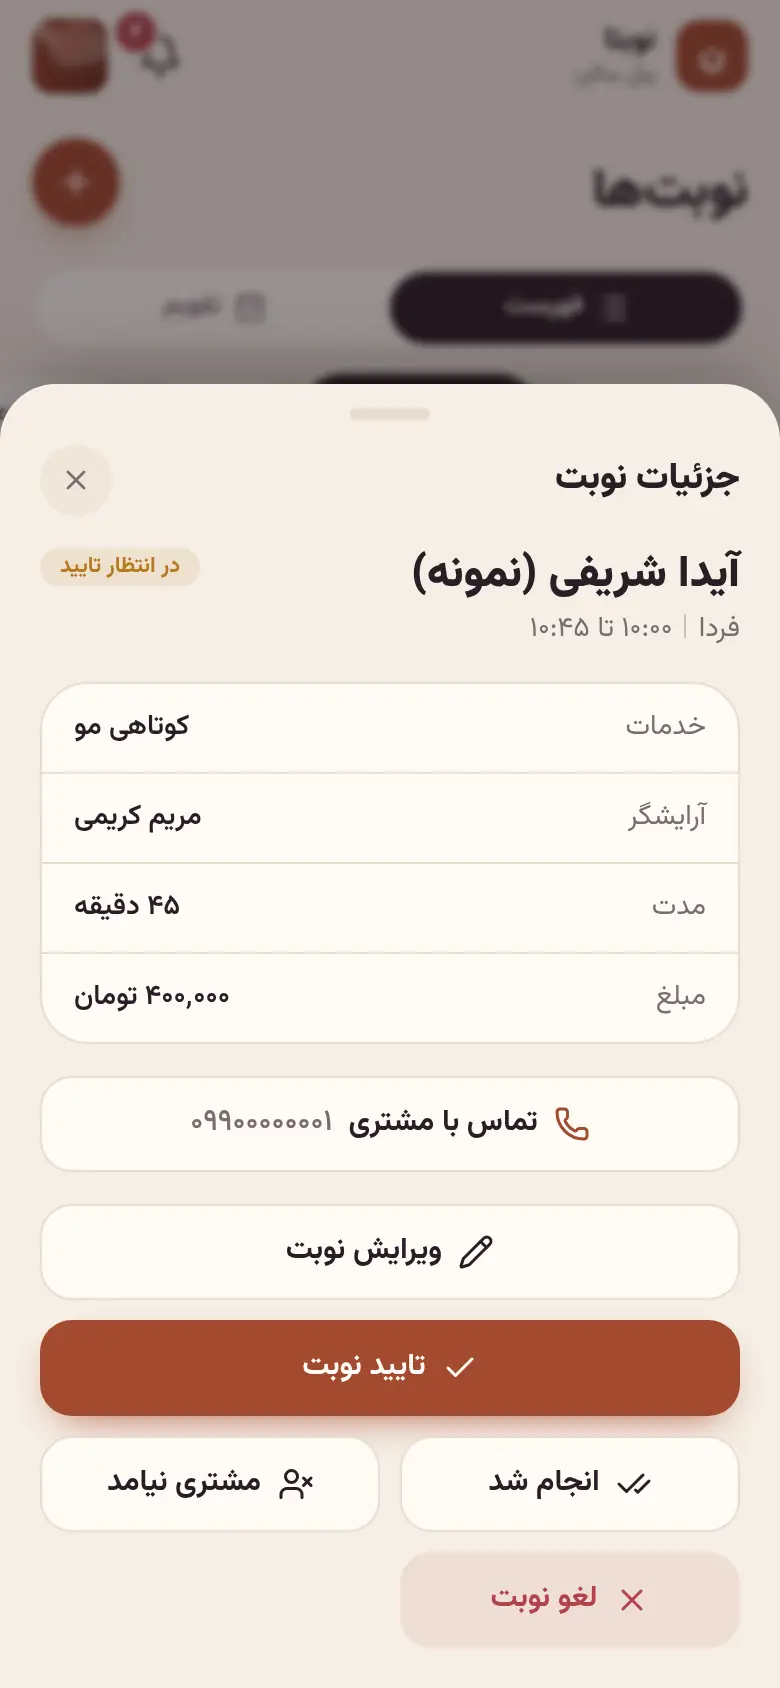
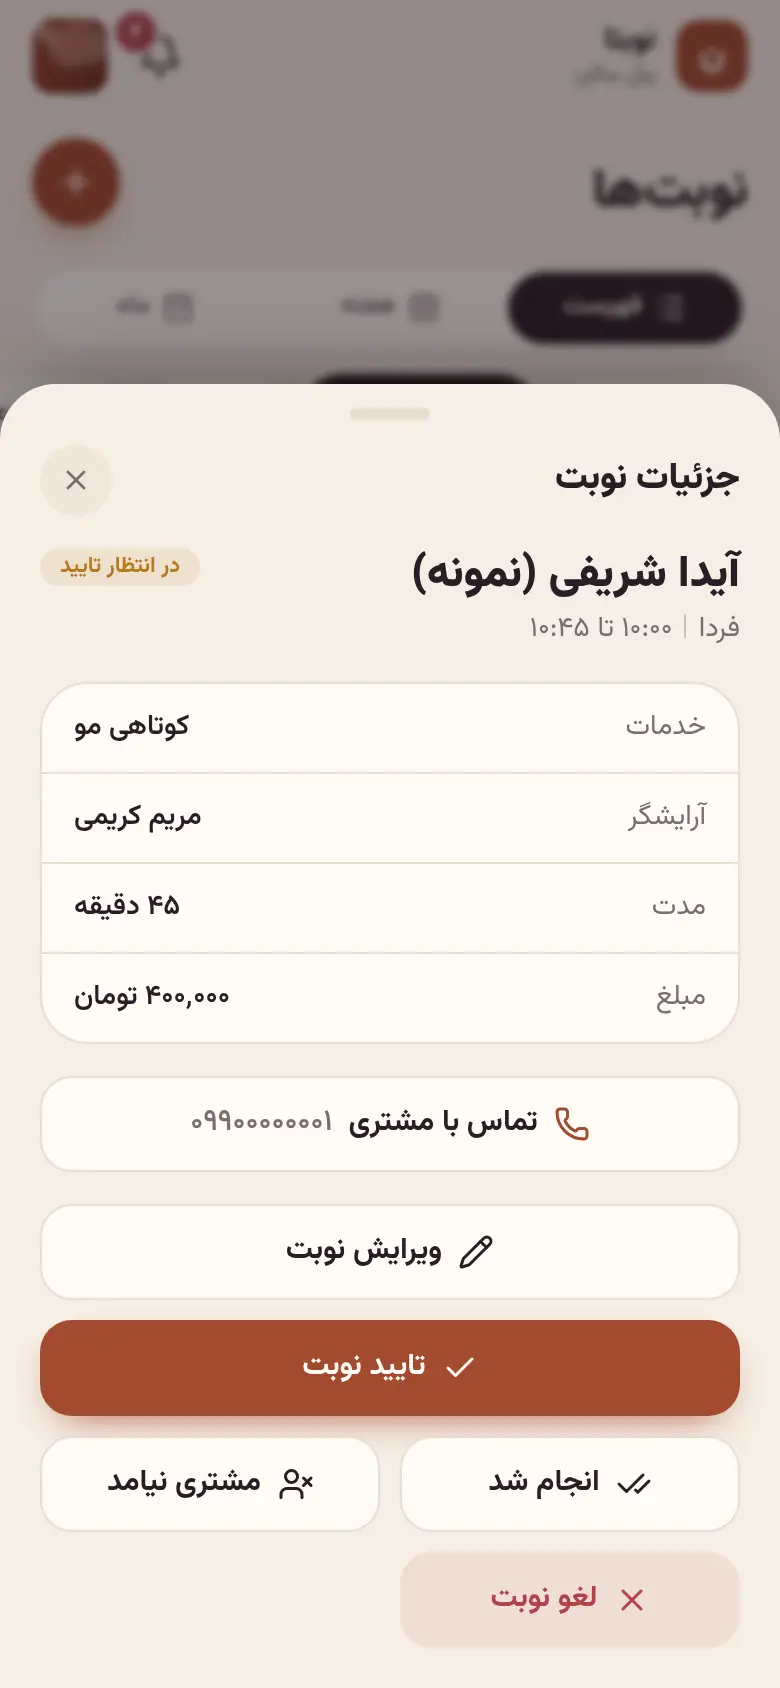
Appointments: week view (salon and stylist panels)
- «فهرست / هفته / ماه» switch, remembered per device
- AppointmentWeek: Saturday–Friday columns on an hour ruler (09–21, stretched to fit the
  week), each booking a block sized by duration and coloured by status, overlapping bookings in
  lanes, stylist filter chips for owners, red now line on today, Friday/holidays marked, week
  arrows (tap the label to jump back to this week); blocks open the usual action sheet
- Help Center: week-view step with a real screenshot; CLAUDE.md updated

Claude-Session: https://claude.ai/code/session_01E1cUf2Db2pw3JrqPEy92s9

diff --git a/apps/web/src/components/app/AppointmentWeek.tsx b/apps/web/src/components/app/AppointmentWeek.tsx
@@ -1,0 +1,227 @@
+"use client";
+
+import { useEffect, useMemo, useState } from "react";
+import { ChevronLeft, ChevronRight } from "lucide-react";
+import { iranHoliday } from "@/lib/iranHolidays";
+import { dateKeyToDate, toJalali } from "@/lib/jalali";
+import { formatMinutesAsClock, toPersianDigits } from "@/lib/persian";
+import { addDaysToDateKey, toSalonWallTime } from "@/lib/salonTime";
+import { STATUS_META, type AppAppointment, type AppointmentStatus } from "./appointments";
+import { cx } from "./ui";
+
+// Week view of the appointments screen: Saturday → Friday columns on an hour ruler, each booking a
+// block sized by its duration and coloured by status, so busy and free hours read at a glance.
+// Tap a block for the usual action sheet. Overlapping bookings (different stylists at the same
+// time) split the column into lanes; owners can filter to one stylist. Salon-local wall time.
+
+const HOUR_PX = 44;
+const WEEKDAY_SHORT = ["ش", "ی", "د", "س", "چ", "پ", "ج"];
+const BLOCK: Record<AppointmentStatus, string> = {
+  PENDING: "bg-app-pending text-white",
+  CONFIRMED: "bg-app-accent text-app-accent-ink",
+  COMPLETED: "bg-app-done text-white",
+  NO_SHOW: "bg-app-danger/75 text-white",
+  CANCELLED: "",
+};
+
+/** Saturday of the week containing `dateKey` (weeks run Saturday → Friday). */
+function weekStart(dateKey: string) {
+  const dow = new Date(`${dateKey}T00:00:00.000Z`).getUTCDay(); // 0 = Sunday … 6 = Saturday
+  return addDaysToDateKey(dateKey, -((dow + 1) % 7));
+}
+
+interface Placed {
+  a: AppAppointment;
+  start: number;
+  end: number;
+  lane: number;
+}
+
+/** Greedy lanes so overlapping bookings sit side by side. */
+function placeDay(items: AppAppointment[]): { placed: Placed[]; lanes: number } {
+  const sorted = items
+    .map((a) => {
+      const s = toSalonWallTime(a.startAt);
+      const e = toSalonWallTime(a.endAt);
+      // a booking running past midnight is drawn to the end of its day
+      return { a, start: s.minuteOfDay, end: e.dateKey === s.dateKey ? e.minuteOfDay : 24 * 60 };
+    })
+    .sort((x, y) => x.start - y.start);
+  const laneEnds: number[] = [];
+  const placed = sorted.map((p) => {
+    let lane = laneEnds.findIndex((end) => end <= p.start);
+    if (lane === -1) lane = laneEnds.push(0) - 1;
+    laneEnds[lane] = p.end;
+    return { ...p, lane };
+  });
+  return { placed, lanes: Math.max(1, laneEnds.length) };
+}
+
+export default function AppointmentWeek({
+  appointments,
+  showStylist,
+  onOpen,
+}: {
+  appointments: AppAppointment[];
+  showStylist?: boolean;
+  onOpen: (a: AppAppointment) => void;
+}) {
+  const todayKey = toSalonWallTime(new Date()).dateKey;
+  const [start, setStart] = useState(() => weekStart(todayKey));
+  const [stylist, setStylist] = useState<string | null>(null);
+  const [nowMinute, setNowMinute] = useState(() => toSalonWallTime(new Date()).minuteOfDay);
+
+  // keep the "now" line moving while the screen is open
+  useEffect(() => {
+    const t = setInterval(() => setNowMinute(toSalonWallTime(new Date()).minuteOfDay), 60_000);
+    return () => clearInterval(t);
+  }, []);
+
+  const days = useMemo(() => Array.from({ length: 7 }, (_, i) => addDaysToDateKey(start, i)), [start]);
+  const stylists = useMemo(
+    () => (showStylist ? [...new Set(appointments.map((a) => a.stylist?.displayName).filter((n): n is string => !!n))] : []),
+    [appointments, showStylist],
+  );
+
+  const week = useMemo(() => {
+    const inWeek = appointments.filter((a) => {
+      if (a.status === "CANCELLED") return false;
+      if (stylist && a.stylist?.displayName !== stylist) return false;
+      const key = toSalonWallTime(a.startAt).dateKey;
+      return key >= days[0] && key <= days[6];
+    });
+    const byDay = days.map((d) => placeDay(inWeek.filter((a) => toSalonWallTime(a.startAt).dateKey === d)));
+    const all = byDay.flatMap((d) => d.placed);
+    const from = Math.min(9, ...all.map((p) => Math.floor(p.start / 60)));
+    const to = Math.max(21, ...all.map((p) => Math.ceil(p.end / 60)));
+    return { byDay, count: all.length, from, to };
+  }, [appointments, days, stylist]);
+
+  const hours = Array.from({ length: week.to - week.from }, (_, i) => week.from + i);
+  const first = toJalali(dateKeyToDate(days[0]));
+  const last = toJalali(dateKeyToDate(days[6]));
+  const label =
+    first.month.number === last.month.number
+      ? `${toPersianDigits(first.day)} تا ${toPersianDigits(last.day)} ${last.month.name}`
+      : `${toPersianDigits(first.day)} ${first.month.name} تا ${toPersianDigits(last.day)} ${last.month.name}`;
+  const isThisWeek = days.includes(todayKey);
+
+  return (
+    <div>
+      <div className="mb-3 flex items-center justify-between rounded-3xl border border-app-line bg-app-card p-1.5 shadow-app">
+        {/* RTL: the earlier week sits on the right */}
+        <button type="button" onClick={() => setStart(addDaysToDateKey(start, -7))} aria-label="هفته قبل" className="flex h-11 w-11 items-center justify-center rounded-2xl text-app-ink active:bg-app-card-2">
+          <ChevronRight className="h-5 w-5" aria-hidden />
+        </button>
+        <button type="button" onClick={() => setStart(weekStart(todayKey))} className="text-center" aria-label="برگشت به این هفته">
+          <p className="text-[16px] font-black text-app-ink">{label}</p>
+          <p className="text-[11px] font-medium text-app-muted">
+            {isThisWeek ? "این هفته" : "برگشت به این هفته"}
+            {" — "}
+            {toPersianDigits(week.count)} نوبت
+          </p>
+        </button>
+        <button type="button" onClick={() => setStart(addDaysToDateKey(start, 7))} aria-label="هفته بعد" className="flex h-11 w-11 items-center justify-center rounded-2xl text-app-ink active:bg-app-card-2">
+          <ChevronLeft className="h-5 w-5" aria-hidden />
+        </button>
+      </div>
+
+      {stylists.length > 1 && (
+        <div className="-mx-4 mb-3 flex gap-2 overflow-x-auto px-4 [scrollbar-width:none]" role="radiogroup" aria-label="آرایشگر">
+          {[null, ...stylists].map((s) => (
+            <button
+              key={s ?? "all"}
+              type="button"
+              role="radio"
+              aria-checked={stylist === s}
+              onClick={() => setStylist(s)}
+              className={cx(
+                "h-9 shrink-0 rounded-full px-3.5 text-[13px] font-bold transition",
+                stylist === s ? "bg-app-ink text-app-bg" : "border border-app-line bg-app-card text-app-muted",
+              )}
+            >
+              {s ?? "همه آرایشگرها"}
+            </button>
+          ))}
+        </div>
+      )}
+
+      <div className="overflow-hidden rounded-3xl border border-app-line bg-app-card shadow-app">
+        {/* day headers */}
+        <div className="grid grid-cols-[34px_repeat(7,minmax(0,1fr))] border-b border-app-line">
+          <span />
+          {days.map((d, i) => {
+            const holiday = iranHoliday(d);
+            const red = i === 6 || holiday;
+            const today = d === todayKey;
+            return (
+              <div key={d} className={cx("flex flex-col items-center py-2", holiday && "bg-app-danger/[0.06]")} title={holiday ?? undefined}>
+                <span className={cx("text-[11px] font-bold", red ? "text-app-danger" : "text-app-muted")}>{WEEKDAY_SHORT[i]}</span>
+                <span
+                  className={cx(
+                    "mt-0.5 flex h-7 w-7 items-center justify-center rounded-full text-[13px] font-black",
+                    today ? "bg-app-accent text-app-accent-ink" : red ? "text-app-danger" : "text-app-ink",
+                  )}
+                >
+                  {toPersianDigits(toJalali(dateKeyToDate(d)).day)}
+                </span>
+              </div>
+            );
+          })}
+        </div>
+
+        {/* hour ruler + columns */}
+        <div className="relative grid grid-cols-[34px_repeat(7,minmax(0,1fr))]" style={{ height: hours.length * HOUR_PX }}>
+          <div className="relative">
+            {hours.map((h, i) => (
+              <span key={h} className="absolute right-1 -translate-y-1/2 text-[10px] font-medium text-app-muted" style={{ top: i * HOUR_PX }}>
+                {i === 0 ? "" : toPersianDigits(h)}
+              </span>
+            ))}
+          </div>
+          {days.map((d, di) => {
+            const { placed, lanes } = week.byDay[di];
+            return (
+              <div key={d} className={cx("relative border-r border-app-line/70", iranHoliday(d) && "bg-app-danger/[0.04]")}>
+                {hours.map((h, i) => (
+                  <span key={h} aria-hidden className="absolute inset-x-0 border-t border-app-line/60" style={{ top: i * HOUR_PX }} />
+                ))}
+                {d === todayKey && nowMinute >= week.from * 60 && nowMinute <= week.to * 60 && (
+                  <span aria-hidden className="absolute inset-x-0 z-20 h-0.5 bg-app-danger" style={{ top: ((nowMinute - week.from * 60) / 60) * HOUR_PX }}>
+                    <span className="absolute -right-1 -top-[3px] h-2 w-2 rounded-full bg-app-danger" />
+                  </span>
+                )}
+                {placed.map(({ a, start: s, end: e, lane }) => {
+                  const top = ((s - week.from * 60) / 60) * HOUR_PX;
+                  const height = Math.max(16, ((e - s) / 60) * HOUR_PX - 2);
+                  const who = a.customer ? `${a.customer.firstName} ${a.customer.lastName}`.trim() : "";
+                  return (
+                    <button
+                      key={a.id}
+                      type="button"
+                      onClick={() => onOpen(a)}
+                      aria-label={`${formatMinutesAsClock(s)} تا ${formatMinutesAsClock(e)}${who ? `، ${who}` : ""}${a.stylist ? `، ${a.stylist.displayName}` : ""}، ${STATUS_META[a.status].label}`}
+                      className={cx("absolute z-10 overflow-hidden rounded-md px-0.5 text-start shadow-sm ring-1 ring-app-card transition active:scale-95", BLOCK[a.status])}
+                      style={{ top: top + 1, height, right: `${(lane / lanes) * 100}%`, width: `calc(${100 / lanes}% - 2px)` }}
+                    >
+                      {height >= 28 && lanes === 1 && <span className="block text-[9px] font-black leading-tight">{formatMinutesAsClock(s)}</span>}
+                    </button>
+                  );
+                })}
+              </div>
+            );
+          })}
+        </div>
+      </div>
+
+      <div className="mt-3 flex flex-wrap items-center justify-center gap-x-4 gap-y-1.5 text-[11px] text-app-muted">
+        {(["PENDING", "CONFIRMED", "COMPLETED", "NO_SHOW"] as const).map((s) => (
+          <span key={s} className="flex items-center gap-1.5">
+            <span className={cx("h-2.5 w-2.5 rounded-[3px]", BLOCK[s])} aria-hidden />
+            {STATUS_META[s].label}
+          </span>
+        ))}
+      </div>
+    </div>
+  );
+}

diff --git a/apps/web/src/content/tutorials.ts b/apps/web/src/content/tutorials.ts
@@ -197,10 +197,10 @@ export const TUTORIALS: Tutorial[] = [
   {
     slug: "manage-appointments",
     role: "owner",
-    title: "مدیریت نوبتها: تقویم، تایید، انجام، لغو و ویرایش",
+    title: "مدیریت نوبتها: تقویم هفته و ماه، تایید، لغو و ویرایش",
     summary: "نوبتهای منتظر را تایید کنید، بعد از کار «انجام شد» بزنید و در صورت نیاز نوبت را جابهجا یا لغو کنید.",
     minutes: 2,
-    keywords: ["نوبت", "تایید", "انجام شد", "لغو", "نیامد", "غیبت", "ویرایش", "جابجایی", "تغییر ساعت", "تقویم", "ماه"],
+    keywords: ["نوبت", "تایید", "انجام شد", "لغو", "نیامد", "غیبت", "ویرایش", "جابجایی", "تغییر ساعت", "تقویم", "ماه", "هفته", "ساعت خالی"],
     steps: [
       {
         title: "نوبتهای منتظر تایید",
@@ -217,9 +217,15 @@ export const TUTORIALS: Tutorial[] = [
       },
       {
         title: "نمای تقویم ماه",
-        body: "با «تقویم» بالای صفحه، ماه شمسی را یکجا ببینید: عدد زیر هر روز تعداد نوبتهای آن روز است و نقطه نارنجی یعنی نوبت منتظر تایید دارد. روی هر روز بزنید تا نوبتهایش زیر تقویم نمایش داده شود و با فلشها بین ماهها جابهجا شوید. انتخاب فهرست یا تقویم روی همین گوشی به خاطر میماند؛ آرایشگرها هم همین نما را دارند.",
+        body: "با «ماه» بالای صفحه، ماه شمسی را یکجا ببینید: عدد زیر هر روز تعداد نوبتهای آن روز است و نقطه نارنجی یعنی نوبت منتظر تایید دارد. روی هر روز بزنید تا نوبتهایش زیر تقویم نمایش داده شود و با فلشها بین ماهها جابهجا شوید. انتخاب فهرست، هفته یا ماه روی همین گوشی به خاطر میماند؛ آرایشگرها هم همین نما را دارند.",
         shot: "owner-manage-3",
         callouts: ["نمای تقویم", "روز انتخابشده", "نوبتهای همان روز"],
+      },
+      {
+        title: "نمای هفته",
+        body: "«هفته» شنبه تا جمعه را کنار هم نشان میدهد: هر نوبت یک بلوک به اندازه مدتش است و رنگش وضعیت را نشان میدهد، پس ساعتهای پر و خالی یک نگاه معلوم است. با دکمه آرایشگرها فقط نوبتهای یک نفر را ببینید، با فلشها هفته را عوض کنید و روی هر بلوک بزنید تا جزئیات نوبت باز شود. خط قرمز ساعت فعلی است.",
+        shot: "owner-manage-4",
+        callouts: ["فیلتر آرایشگر", "یک نوبت"],
       },
     ],
   },

diff --git a/apps/web/src/components/app/AppointmentsScreen.tsx b/apps/web/src/components/app/AppointmentsScreen.tsx
@@ -1,15 +1,16 @@
 "use client";
 
 import { useCallback, useEffect, useMemo, useState } from "react";
-import { CalendarDays, CalendarX2, List } from "lucide-react";
+import { CalendarDays, CalendarRange, CalendarX2, List } from "lucide-react";
 import { salonWallTimeToInstant, toSalonWallTime } from "@/lib/salonTime";
 import { AppointmentList, AppointmentSheet, useAppointmentActions, type AppAppointment, type AppointmentStatus } from "./appointments";
 import SalonBookingSheet from "./SalonBookingSheet";
 import AppointmentCalendar from "./AppointmentCalendar";
+import AppointmentWeek from "./AppointmentWeek";
 import { ChipTabs, EmptyState, ErrorBanner, ListSkeleton, PageHeader, cx } from "./ui";
 
 type Tab = "upcoming" | "pending" | "history" | "cancelled";
-type View = "list" | "calendar";
+type View = "list" | "week" | "calendar";
 const VIEW_KEY = "appointmentsView";
 
 const EMPTY: Record<Tab, string> = {
@@ -63,7 +64,8 @@ export default function AppointmentsScreen({
     // The list/calendar choice is remembered on this device (a deep link to pending opens the list).
     else {
       try {
-        if (localStorage.getItem(VIEW_KEY) === "calendar") setView("calendar");
+        const saved = localStorage.getItem(VIEW_KEY);
+        if (saved === "calendar" || saved === "week") setView(saved);
       } catch {}
     }
   }, []);
@@ -99,7 +101,8 @@ export default function AppointmentsScreen({
         {(
           [
             ["list", List, "فهرست"],
-            ["calendar", CalendarDays, "تقویم"],
+            ["week", CalendarRange, "هفته"],
+            ["calendar", CalendarDays, "ماه"],
           ] as const
         ).map(([v, Icon, label]) => (
           <button
@@ -136,6 +139,8 @@ export default function AppointmentsScreen({
 
       {!appointments ? (
         !error && <ListSkeleton />
+      ) : view === "week" ? (
+        <AppointmentWeek appointments={appointments} showStylist={showStylist} onOpen={actions.open} />
       ) : view === "calendar" ? (
         <AppointmentCalendar appointments={appointments} showStylist={showStylist} onOpen={actions.open} />
       ) : list.length === 0 ? (

diff --git a/apps/web/CLAUDE.md b/apps/web/CLAUDE.md
@@ -54,7 +54,7 @@ The platform has no desktop users: `/salon/**`, `/stylist/**` and `/dashboard/**
 - `ui.tsx` — `PageHeader`, `Card`, `ListGroup`, `ChipTabs`, `Button`, `IconButton`, `Field`/`TextInput`/`TextArea`, `Toggle`, `Avatar`, `EmptyState`, `ListSkeleton`, `ErrorBanner`.
 - `Sheet.tsx` — bottom sheet for every add/edit/detail flow (no centered modals, no inline edit forms).
 - `PickerSelect.tsx` / `TimePicker.tsx` — choices open a bottom-sheet list or time grid; there are no native `<select>`s in the panels (OS pickers can't be styled). Province/city use `components/common/ProvinceCitySelect`.
-- `appointments.tsx` / `AppointmentsScreen.tsx` — appointment cards, day grouping, the status-action sheet, today's timeline; shared by the salon and stylist panels. The screen has a «فهرست / تقویم» switch (remembered in localStorage); `AppointmentCalendar.tsx` is the Jalali month grid.
+- `appointments.tsx` / `AppointmentsScreen.tsx` — appointment cards, day grouping, the status-action sheet, today's timeline; shared by the salon and stylist panels. The screen has a «فهرست / هفته / ماه» switch (remembered in localStorage): `AppointmentWeek.tsx` is the Saturday–Friday hour grid (status-coloured blocks, overlaps in lanes, stylist filter for owners, now line), `AppointmentCalendar.tsx` the Jalali month grid.
 - Official holidays: `src/lib/iranHolidays.ts` (`iranHoliday(dateKey)`), used by the calendar and the customer booking day strip. Solar holidays are fixed; religious ones are computed from the Umm al-Qura Hijri calendar and can be a day off Iran's moon-sighted dates — each year, paste the official dates (time.ir) into `OFFICIAL_OVERRIDES` for that Jalali year.
 
 Colors are semantic tokens on `.app-root` in `globals.css` (`bg-app-bg`, `bg-app-card`, `text-app-ink`, `text-app-muted`, `border-app-line`, `bg-app-accent`…; they flip under `.dark`). `.app-root` also remaps the `brand-*` and `gray-*` scales to terracotta/warm neutrals, so older screens rendered in the shell (wallet, support, profile) and the auth pages match without rewrites. Inputs inside the shell are forced to 16px so iOS doesn't zoom on focus. Show numbers, times and dates with Persian digits (`toPersianDigits`, `formatMinutesAsClock`, `src/lib/salonTime.ts`); separate inline facts with `<Sep />` (`components/common/Sep.tsx`), never "·" — in Vazirmatn the middle dot looks like the Persian zero "۰", so "۴ · …" reads as "۴۰" and prices gain a zero; avoid native `type="time"`/`type="date"` inputs (Latin digits / Gregorian calendar) — use `TimePicker` and `DaySelect` (`components/app/accounting.tsx`).
